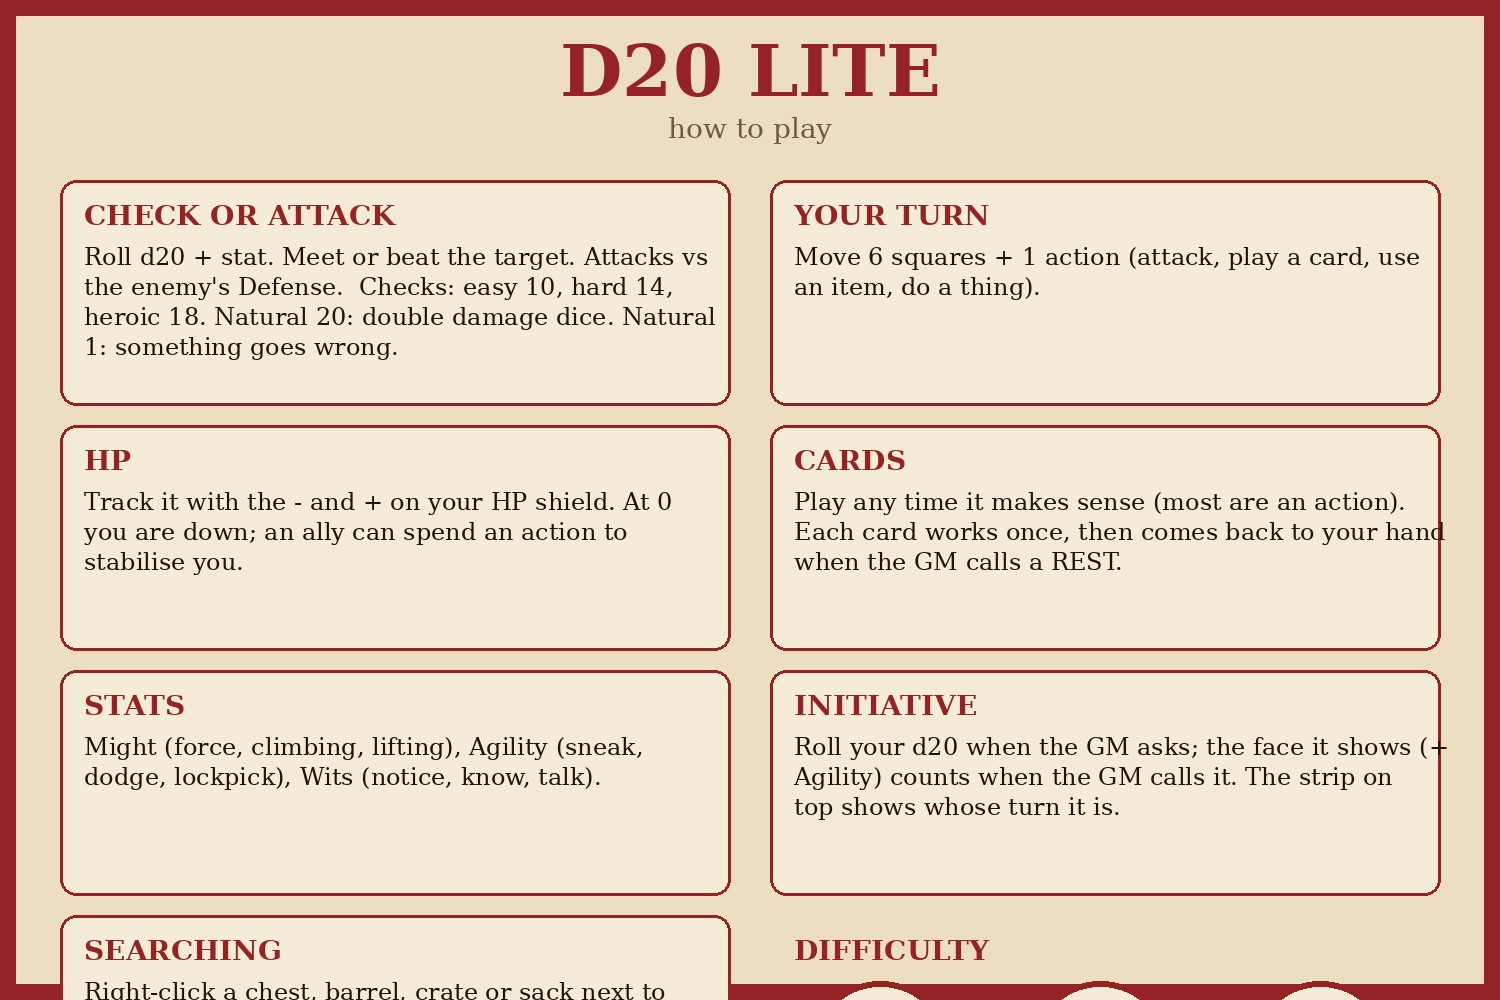
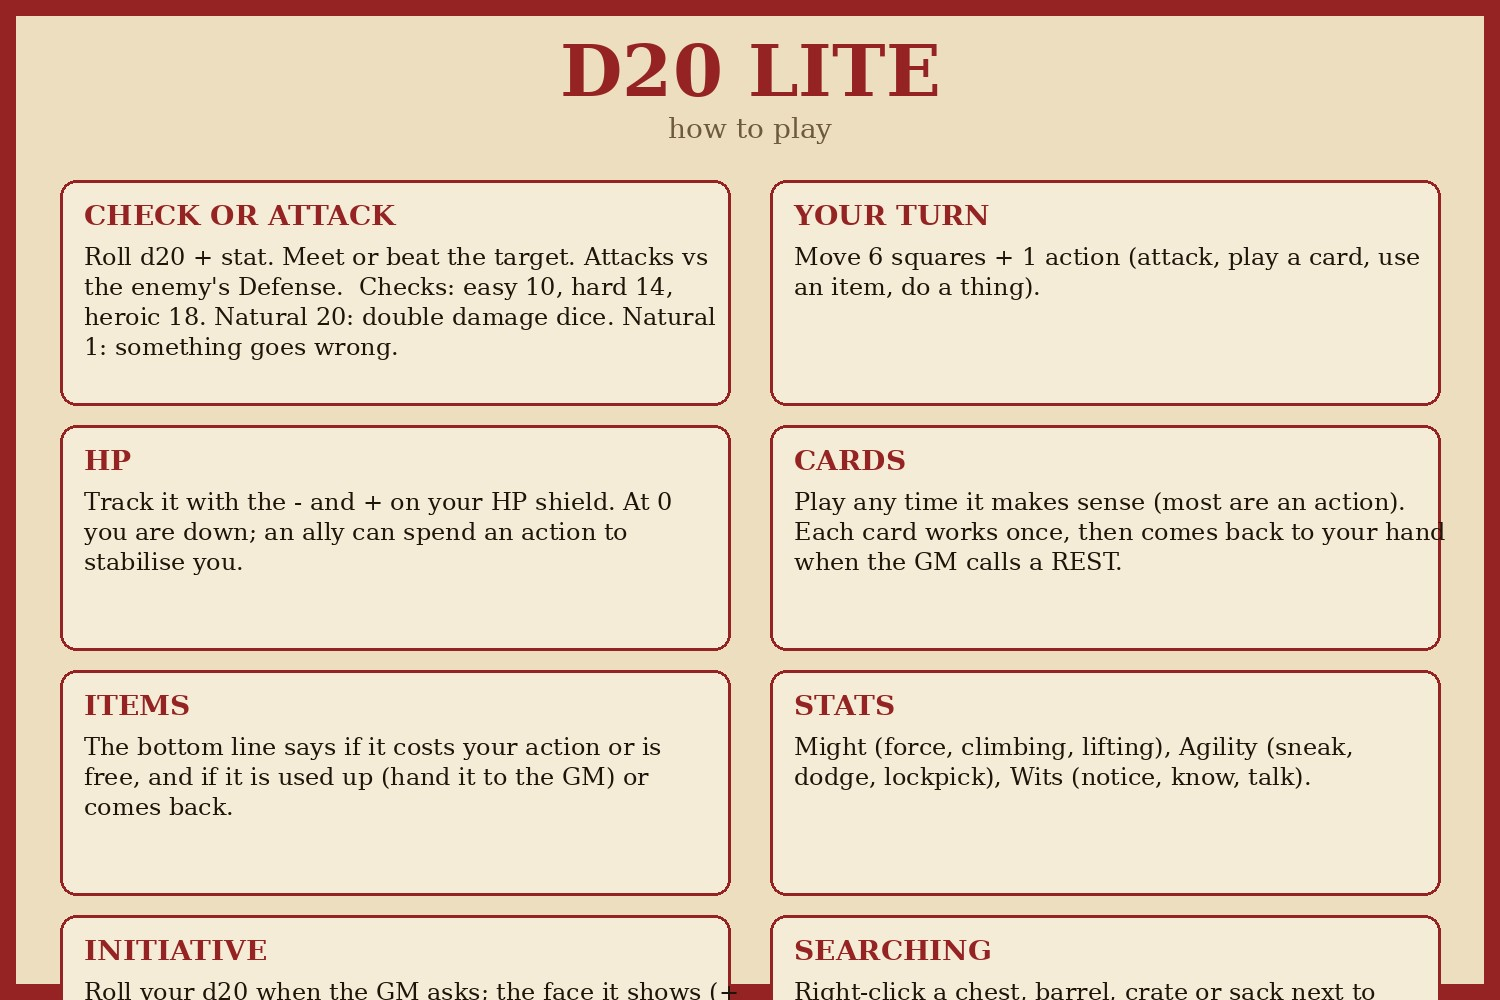
Item cards show action/free and uses; Lightning Rod in the rats' nest

Changed region(s): [[0.0613, 0.899, 0.9813, 1.0], [0.5213, 0.682, 0.9507, 0.837], [0.0613, 0.682, 0.4293, 0.837]]

diff --git a/content.py b/content.py
@@ -129,6 +129,7 @@ Your turn: move 6 squares + 1 action (attack, play a card, use an item, do a thi
 HP: track it with the - and + on your HP shield. At 0 you are down; an ally can spend an action to stabilise you.
 Cards: play any time it makes sense (most are an action). Each card works once,
   then comes back to your hand when the GM calls a REST.
+Items: the bottom line says if it costs your action or is free, and if it is used up (hand it to the GM) or comes back.
 Stats: Might (force, climbing, lifting), Agility (sneak, dodge, lockpick), Wits (notice, know, talk).
 Initiative: roll your d20 when the GM asks; the face it shows (+ Agility) counts when the GM calls it.
   The strip on top shows whose turn it is.
@@ -434,7 +435,7 @@ If paid the kids earlier: Vasko starts friendly and the first round is given to 
                   ("crate", 1.9, -3.4, 15, 1, {"name": "Smugglers' stash", "gm": "Wits DC 12: the ceiling is loose. Digging out carelessly brings it down (1d6, Agility DC 12 halves). Inside: 3 rations and a SMOKE EGG."}),
                   # C: rats' nest (north, x 6)
                   ("bed", 5.6, 4.6, 20), ("bed", 6.4, 4.0, 110),
-                  ("sack", 6.6, 4.9, 70, 1, {"name": "Rats' nest", "gm": "A gnawed purse in the bedding: 8 gold."}),
+                  ("sack", 6.6, 4.9, 70, 1, {"name": "Rats' nest", "gm": "A gnawed purse in the bedding: 8 gold, and a LIGHTNING ROD."}),
                   ("rubble", 5.4, 3.4, 140, 0.5),
                   # the four traps: GM-only markers (players never see them; the GM can reveal one once it's found)
                   ("trap_plate", -6, 0, 0, 1, {"name": "Trap 1: dart plate", "hidden": True, "gm": "Wits DC 13 to spot, "
@@ -467,7 +468,8 @@ SIDE PASSAGES (optional, each off the main tunnel; hover a chest/barrel/sack for
      ceiling is loose; digging out the barrel without care brings more down (1d6, Agility DC 12 halves).
      Inside: 3 rations and a SMOKE EGG (throw it: a 3x3 area is hidden in smoke for one round).
   C. RATS' NEST (north, column +6): the 2 giant rats sleep on stolen bedding. Sneaking past: Agility DC 11.
-     The bell tripwire (trap 4) wakes them. In the nest: a gnawed purse, 8 gold.
+     The bell tripwire (trap 4) wakes them. In the nest: a gnawed purse, 8 gold, and
+     tangled in the bedding a LIGHTNING ROD (smuggled wizard's rod: chain lightning 2d6 + 1d6 to 2 more, once per fight).
 Exit (far east): a hatch into a ditch well outside the city walls. Cart tracks in the mud."""),
 
     dict(key="cart", title="5. The Broken Cart", fog=True, music="cart.mp3", battle=True, hidden=True,
@@ -524,7 +526,7 @@ he gets a few simple words. Kind Heart makes her trust them. She is not hostile,
 THE SHAFT (north, where the light comes in): 10 squares straight up. Might DC 15 climb (fail: 1d6, try again), rope + one
 climber, or LEVITATE. The SNIFFER FERRET finds her hiding place (otherwise Wits DC 14).
 ISOLDE: in a ledge up the shaft, human again, wounded but alive. Heal her or give her food (she stands).
-She keeps a LIGHTNING ROD (magic, gift to whoever reached her first: once, chain lightning 2d6 + 1d6 to 2 more).
+If the party skipped the rats' nest, she has the LIGHTNING ROD instead (took it from the thieves; gift to whoever reached her first).
 Read aloud: "A pale young woman in torn blue silk opens her eyes. 'Took you long enough.'"
 THE END. (Optional epilogue: she promises to return the Hearthstone and renew the Pact.)"""),
 ]
@@ -553,25 +555,31 @@ LOOT = [   # (weight, [(text, what turns up on the table), ...]: one of the vari
 ]
 
 ITEMS = [
-    ("Warren Whistle", "Blow it once: 1d4 street kids turn up to help or cause a distraction.",
+    ("Warren Whistle", "Blow it: 1d4 street kids turn up to help or cause a distraction.",
      "a small carved bone whistle on a leather cord lying on worn cobblestones, warm candlelight", 1),
-    ("Wolf-tooth Charm", "Once: reroll a failed Agility or Might check.",
+    ("Wolf-tooth Charm", "Reroll a failed Agility or Might check.",
      "a necklace of wolf teeth and leather strips with a carved bone bead on rough dark wood", 1),
-    ("Healing Draught", "Drink (an action): heal 2d8+2 HP. One use.",
+    ("Healing Draught", "Drink it: heal 2d8+2 HP.",
      "a small round glass flask of glowing red potion with a cork stopper on a wooden table", 2),
-    ("Smoke Egg", "Throw it: a 3x3 area fills with smoke for one round. Everyone inside is hidden and can't be targeted. One use.",
+    ("Smoke Egg", "Throw it: a 3x3 area fills with smoke for one round. Everyone inside is hidden and can't be targeted.",
      "a grey clay egg-shaped bomb with a short smouldering fuse, wisps of smoke curling from it", 2),
-    ("Baron's Lucky Ring", "Once per fight: reroll any die you can see.",
+    ("Baron's Lucky Ring", "Reroll any die you can see.",
      "a heavy gold signet ring with a rat crest and a glowing green gem resting on a pile of old bone dice and coins on a gambling table, candlelight", 1),
     ("Sniffer Ferret", "Let it loose. It sniffs out one hidden person, loot, door or trap nearby, then comes back for a treat.",
      "a sly sleek ferret with a tiny leather collar peeking out of a small wooden smuggler's cage, lantern light, stone tunnel", 1),
     ("Potion of Giantism", "Drink it: grow to twice your size until the fight ends. +1d4 melee damage and advantage on Might checks.",
      "a large bulbous potion bottle of swirling amber liquid with a giant's footprint seal on the cork, on a rough stone ledge", 1),
-    ("Lightning Rod", "Once: chain lightning. 2d6 to one target, then it jumps to up to 2 more enemies within 3 squares for 1d6 each.",
+    ("Lightning Rod", "Chain lightning: 2d6 to one target, then it jumps to up to 2 more enemies within 3 squares for 1d6 each.",
      "a short iron rod wrapped in copper wire crackling with blue lightning arcs, held up in a dark cave", 1),
-    ("Poison Flask", "Throw it (range 6): the target takes 1d6 at the start of its next 3 turns. One use.",
+    ("Poison Flask", "Throw it (range 6): the target takes 1d6 at the start of its next 3 turns.",
      "a small round glass flask of bubbling acid-green poison with a skull scratched into the glass and a wax-sealed cork, wisps of green fumes, dark wooden table", 1),
 ]
+# item card footer: does it cost your action, and how often
+ITEM_USE = {"Warren Whistle": "Action - one use", "Wolf-tooth Charm": "Free - one use",
+            "Healing Draught": "Action - one use", "Smoke Egg": "Action - one use",
+            "Baron's Lucky Ring": "Free - once per fight", "Sniffer Ferret": "Action - once per scene",
+            "Potion of Giantism": "Action - one use", "Lightning Rod": "Action - once per fight",
+            "Poison Flask": "Action - one use"}
 # per scene: 360 backdrop around the table (prompt) and the mood light (colour, brightness x the default)
 SKY_STYLE = ("An equirectangular 360 degree panorama, seen from eye level. A painterly dark fantasy illustration "
              "in muted earthy colours with soft atmospheric light.")

diff --git a/build.py b/build.py
@@ -3,7 +3,7 @@ e.g. https://raw.githubusercontent.com/<user>/<repo>/<commit>/  -> writes art/ou
 import hashlib, json, math, subprocess, sys, textwrap
 from pathlib import Path
 from PIL import Image, ImageChops, ImageDraw, ImageFont
-from content import HEROES, NPCS, SCENES, RULES, BATTLE_MUSIC, ITEMS, SKIES, LOOT, FOOD
+from content import HEROES, NPCS, SCENES, RULES, BATTLE_MUSIC, ITEMS, ITEM_USE, SKIES, LOOT, FOOD
 
 ROOT = Path(__file__).parent
 CONTROLLER = "901d00"       # GUID of the hidden object that runs game.lua
@@ -141,7 +141,7 @@ def make_item_card(i):
     im.paste(Image.open(RAW / f"item_{i}.png").convert("RGB").resize((460, 383)), (20, 82))
     d.rectangle((20, 82, 480, 465), outline=GOLD, width=3)
     wrap(d, (32, 482), text, 24, 34)
-    d.text((250, 668), "magic item", font=font(18), fill=(110, 90, 60), anchor="mm")
+    d.text((250, 664), ITEM_USE[title], font=font(24, True), fill=(110, 90, 60), anchor="mm")
     return im
 
 
@@ -160,7 +160,7 @@ def screen_panels():
     foes = "\n".join(f"{t['name']}: HP {t['hp']}, Def {t['defense']}. " +
                      "; ".join(f"{a} {'+%d' % b if b is not None else ''} {c or ''}".replace("  ", " ") for a, b, c, _ in t["attacks"])
                      for t in NPCS.values() if t["attacks"])
-    items = "\n".join(f"{n}{' (x%d)' % k if k > 1 else ''}: {x}" for n, x, _, k in ITEMS)
+    items = "\n".join(f"{n}{' (x%d)' % k if k > 1 else ''} ({ITEM_USE[n]}): {x}" for n, x, _, k in ITEMS)
     return [("How to play", rules, 36), ("Foes", foes, 33), ("Magic items", items, 36)]
 
 

diff --git a/GM_GUIDE.md b/GM_GUIDE.md
@@ -27,6 +27,7 @@ Your turn: move 6 squares + 1 action (attack, play a card, use an item, do a thi
 HP: track it with the - and + on your HP shield. At 0 you are down; an ally can spend an action to stabilise you.
 Cards: play any time it makes sense (most are an action). Each card works once,
   then comes back to your hand when the GM calls a REST.
+Items: the bottom line says if it costs your action or is free, and if it is used up (hand it to the GM) or comes back.
 Stats: Might (force, climbing, lifting), Agility (sneak, dodge, lockpick), Wits (notice, know, talk).
 Initiative: roll your d20 when the GM asks; the face it shows (+ Agility) counts when the GM calls it.
   The strip on top shows whose turn it is.
@@ -195,7 +196,8 @@ SIDE PASSAGES (optional, each off the main tunnel; hover a chest/barrel/sack for
      ceiling is loose; digging out the barrel without care brings more down (1d6, Agility DC 12 halves).
      Inside: 3 rations and a SMOKE EGG (throw it: a 3x3 area is hidden in smoke for one round).
   C. RATS' NEST (north, column +6): the 2 giant rats sleep on stolen bedding. Sneaking past: Agility DC 11.
-     The bell tripwire (trap 4) wakes them. In the nest: a gnawed purse, 8 gold.
+     The bell tripwire (trap 4) wakes them. In the nest: a gnawed purse, 8 gold, and
+     tangled in the bedding a LIGHTNING ROD (smuggled wizard's rod: chain lightning 2d6 + 1d6 to 2 more, once per fight).
 Exit (far east): a hatch into a ditch well outside the city walls. Cart tracks in the mud.
 ```
 
@@ -232,7 +234,7 @@ he gets a few simple words. Kind Heart makes her trust them. She is not hostile,
 THE SHAFT (north, where the light comes in): 10 squares straight up. Might DC 15 climb (fail: 1d6, try again), rope + one
 climber, or LEVITATE. The SNIFFER FERRET finds her hiding place (otherwise Wits DC 14).
 ISOLDE: in a ledge up the shaft, human again, wounded but alive. Heal her or give her food (she stands).
-She keeps a LIGHTNING ROD (magic, gift to whoever reached her first: once, chain lightning 2d6 + 1d6 to 2 more).
+If the party skipped the rats' nest, she has the LIGHTNING ROD instead (took it from the thieves; gift to whoever reached her first).
 Read aloud: "A pale young woman in torn blue silk opens her eyes. 'Took you long enough.'"
 THE END. (Optional epilogue: she promises to return the Hearthstone and renew the Pact.)
 ```
